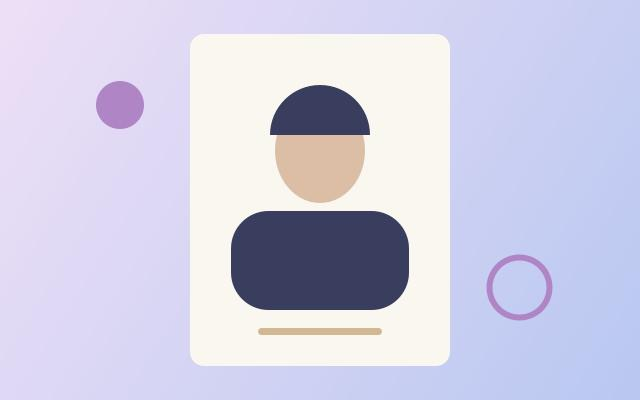
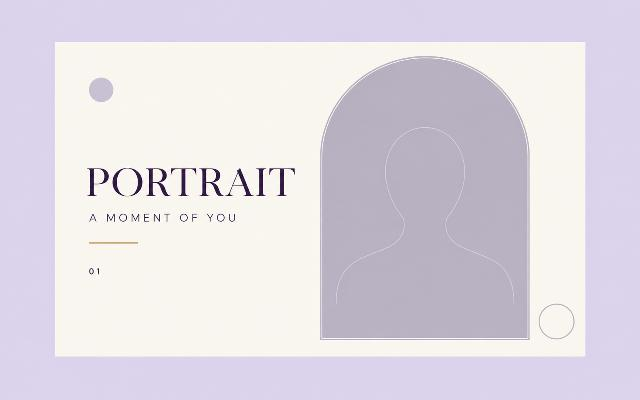
fix(backend): return mock artwork for the selected template
Resolve portrait and postcard candidates through an explicit result whitelist.
Package separate artwork and retain the legacy fixture for existing successful tasks.
Add template/result mapping and HTTP persistence regression coverage, plus media provenance.

Validation: 404 backend tests and 11 isolated MySQL execution/API integration tests passed.

diff --git a/backend/scripts/GenerateDemoMedia.java b/backend/scripts/GenerateDemoMedia.java
@@ -1,72 +1,33 @@
-import java.awt.BasicStroke;
-import java.awt.Color;
-import java.awt.GradientPaint;
-import java.awt.Graphics2D;
 import java.awt.RenderingHints;
 import java.awt.image.BufferedImage;
 import java.nio.file.Files;
 import java.nio.file.Path;
 import javax.imageio.ImageIO;
 
-/** Original geometric demo artwork. Run from backend/ with Java 17 source-file mode. */
+/** Packages imagegen artwork as bounded JPEGs. Run from backend/; see demo-media/SOURCES.md. */
 public class GenerateDemoMedia {
     public static void main(String[] args) throws Exception {
-        Path directory = Path.of("src/main/resources/demo-media");
-        Files.createDirectories(directory);
-        for (String name : new String[]{"portrait-cover", "postcard-cover", "mock-result"}) {
-            var image = new BufferedImage(640, 400, BufferedImage.TYPE_INT_RGB);
+        if (args.length != 7) {
+            throw new IllegalArgumentException("Expected portrait-source, coast-source, town-source, portrait-cover, postcard-cover, portrait-result, postcard-result image paths");
+        }
+        Path media = Path.of("src/main/resources/demo-media");
+        Path examples = Path.of("../frontend/public/demo-examples");
+        Files.createDirectories(media);
+        Files.createDirectories(examples);
+        String[] names = {"portrait-source", "travel-coast-source", "travel-town-source",
+                "portrait-cover", "postcard-cover", "portrait-result", "postcard-result"};
+        for (int i = 0; i < names.length; i++) {
+            Path output = (i < 3 ? examples : media).resolve(names[i] + ".jpg");
+            var source = ImageIO.read(Path.of(args[i]).toFile());
+            if (source == null) throw new IllegalArgumentException("Unreadable image: " + names[i]);
+            var image = new BufferedImage(i < 3 ? 1200 : 640, i < 3 ? 800 : 400, BufferedImage.TYPE_INT_RGB);
             var graphics = image.createGraphics();
-            graphics.setRenderingHint(RenderingHints.KEY_ANTIALIASING, RenderingHints.VALUE_ANTIALIAS_ON);
-            if (name.equals("portrait-cover")) portrait(graphics);
-            else landscape(graphics, name.equals("mock-result"));
+            graphics.setRenderingHint(RenderingHints.KEY_INTERPOLATION, RenderingHints.VALUE_INTERPOLATION_BICUBIC);
+            graphics.drawImage(source, 0, 0, image.getWidth(), image.getHeight(), null);
             graphics.dispose();
-            ImageIO.write(image, "jpeg", directory.resolve(name + ".jpg").toFile());
+            if (!ImageIO.write(image, "jpeg", output.toFile())) throw new IllegalStateException("JPEG writer unavailable");
+            if (i >= 5) Files.copy(output, examples.resolve(output.getFileName()), java.nio.file.StandardCopyOption.REPLACE_EXISTING);
         }
-    }
-
-    private static void portrait(Graphics2D graphics) {
-        graphics.setPaint(new GradientPaint(0, 0, new Color(238, 224, 247), 640, 400, new Color(185, 200, 241)));
-        graphics.fillRect(0, 0, 640, 400);
-        graphics.setColor(new Color(250, 247, 241));
-        graphics.fillRoundRect(190, 34, 260, 332, 28, 28);
-        graphics.setColor(new Color(219, 190, 165));
-        graphics.fillOval(275, 98, 90, 105);
-        graphics.setColor(new Color(57, 62, 94));
-        graphics.fillArc(270, 85, 100, 100, 0, 180);
-        graphics.fillRoundRect(231, 211, 178, 99, 75, 75);
-        graphics.setColor(new Color(176, 133, 197));
-        graphics.fillOval(96, 81, 48, 48);
-        graphics.setStroke(new BasicStroke(6));
-        graphics.drawOval(489, 257, 60, 60);
-        graphics.setColor(new Color(210, 184, 146));
-        graphics.fillRoundRect(258, 328, 124, 7, 7, 7);
-    }
-
-    private static void landscape(Graphics2D graphics, boolean result) {
-        graphics.setColor(new Color(244, 239, 225));
-        graphics.fillRect(0, 0, 640, 400);
-        graphics.setPaint(new GradientPaint(0, 35, new Color(181, 218, 229), 0, 300, new Color(241, 223, 188)));
-        graphics.fillRect(30, 30, 580, 305);
-        graphics.setColor(new Color(244, 184, 110));
-        graphics.fillOval(result ? 415 : 445, 65, 72, 72);
-        graphics.setColor(new Color(99, 147, 150));
-        graphics.fillPolygon(new int[]{30, 210, 380, 520, 610}, new int[]{260, 96, 240, 131, 260}, 5);
-        graphics.setColor(new Color(55, 106, 112));
-        graphics.fillPolygon(new int[]{30, 140, 320, 480, 610, 610, 30},
-                new int[]{300, 218, 292, 198, 260, 335, 335}, 7);
-        graphics.setColor(new Color(213, 231, 223));
-        graphics.fillPolygon(new int[]{270, 340, 460, 385}, new int[]{335, 266, 335, 335}, 4);
-        graphics.setColor(new Color(89, 117, 117));
-        graphics.fillRoundRect(32, 357, 160, 8, 8, 8);
-        graphics.fillRoundRect(32, 375, 104, 5, 5, 5);
-        graphics.setStroke(new BasicStroke(2));
-        graphics.drawRect(568, 349, 39, 34);
-        if (result) {
-            graphics.setColor(new Color(244, 239, 225));
-            graphics.fillOval(62, 54, 82, 82);
-            graphics.setColor(new Color(55, 106, 112));
-            graphics.setStroke(new BasicStroke(7, BasicStroke.CAP_ROUND, BasicStroke.JOIN_ROUND));
-            graphics.drawPolyline(new int[]{84, 99, 124}, new int[]{94, 108, 79}, 3);
-        }
+        // mock-result.jpg is retained unchanged for already-persisted demo:mock-result tasks.
     }
 }

diff --git a/backend/src/test/java/com/frameflow/studio/infrastructure/adapter/port/asset/PackagedDemoMediaPortTest.java b/backend/src/test/java/com/frameflow/studio/infrastructure/adapter/port/asset/PackagedDemoMediaPortTest.java
@@ -32,10 +32,16 @@ class PackagedDemoMediaPortTest {
             copy[0] = 0;
             assertThat(media.findCover(key).orElseThrow().bytes()[0]).isEqualTo((byte) 0xff);
         }
-        assertThat(media.resultFixture().reference()).isEqualTo("demo:mock-result");
-        assertThat(media.resultFixture().mediaType()).isEqualTo("image/jpeg");
-        assertJpeg(media.resultFixture().bytes());
-        for (String key : new String[]{"mock-result", "demo:mock-result", "../application.yml", "/etc/passwd",
+        for (String reference : new String[]{"demo:mock-result", "demo:portrait-result", "demo:postcard-result"}) {
+            var result = media.prepareResult(reference);
+            assertThat(result.reference()).isEqualTo(reference);
+            assertThat(result.mediaType()).isEqualTo("image/jpeg");
+            assertJpeg(result.bytes());
+        }
+        assertThat(media.prepareResult("demo:portrait-result").bytes())
+                .isNotEqualTo(media.prepareResult("demo:postcard-result").bytes())
+                .isNotEqualTo(media.findCover("portrait-cover").orElseThrow().bytes());
+        for (String key : new String[]{"mock-result", "portrait-result", "postcard-result", "demo:mock-result", "../application.yml", "/etc/passwd",
                 "portrait-cover.jpg", "demo-media/portrait-cover.jpg", "unknown"}) {
             assertThat(media.findCover(key)).as(key).isEmpty();
         }
@@ -46,13 +52,13 @@ class PackagedDemoMediaPortTest {
         Resource jpegWithPngName = new ClassPathResource("demo-media/portrait-cover.jpg") {
             @Override public String getFilename() { return "wrong.png"; }
         };
-        var port = new PackagedDemoMediaPort(Map.of("cover", jpegWithPngName), jpegWithPngName);
+        var port = new PackagedDemoMediaPort(Map.of("cover", jpegWithPngName), Map.of("demo:result", jpegWithPngName));
         assertThat(port.findCover("cover").orElseThrow().mediaType()).isEqualTo("image/jpeg");
         var png = new ByteArrayOutputStream();
         try (var input = jpegWithPngName.getInputStream()) {
             ImageIO.write(ImageIO.read(input), "png", png);
         }
-        var pngPort = new PackagedDemoMediaPort(Map.of("cover", new ByteArrayResource(png.toByteArray())), jpegWithPngName);
+        var pngPort = new PackagedDemoMediaPort(Map.of("cover", new ByteArrayResource(png.toByteArray())), Map.of("demo:result", jpegWithPngName));
         assertThat(pngPort.findCover("cover").orElseThrow().mediaType()).isEqualTo("image/png");
     }
 
@@ -62,11 +68,11 @@ class PackagedDemoMediaPortTest {
         byte[] truncated = java.util.Arrays.copyOf(valid.getContentAsByteArray(), 40);
         for (Resource invalid : new Resource[]{new ClassPathResource("missing.jpg"),
                 new ByteArrayResource(new byte[]{1, 2, 3}), new ByteArrayResource(truncated)}) {
-            assertThatThrownBy(() -> new PackagedDemoMediaPort(Map.of("cover", invalid), valid))
+            assertThatThrownBy(() -> new PackagedDemoMediaPort(Map.of("cover", invalid), Map.of("demo:result", valid)))
                     .isInstanceOf(IllegalStateException.class).hasMessageContaining("Cannot load packaged demo image");
             try (var context = new AnnotationConfigApplicationContext()) {
                 context.registerBean(PackagedDemoMediaPort.class,
-                        () -> new PackagedDemoMediaPort(Map.of("cover", valid), invalid));
+                        () -> new PackagedDemoMediaPort(Map.of("cover", valid), Map.of("demo:result", invalid)));
                 assertThatThrownBy(context::refresh).hasRootCauseInstanceOf(java.io.IOException.class);
                 assertThat(context.isActive()).isFalse();
             }

diff --git a/backend/src/test/java/com/frameflow/studio/infrastructure/dao/task/TaskApiIT.java b/backend/src/test/java/com/frameflow/studio/infrastructure/dao/task/TaskApiIT.java
@@ -182,7 +182,7 @@ class TaskApiIT {
         }
         var image = client.send(HttpRequest.newBuilder(URI.create(origin + path + "/result")).GET().build(), HttpResponse.BodyHandlers.ofByteArray());
         assertThat(image.statusCode()).isEqualTo(200);
-        assertThat(image.body()).isEqualTo(new ClassPathResource("demo-media/mock-result.jpg").getContentAsByteArray());
+        assertThat(image.body()).isEqualTo(new ClassPathResource("demo-media/portrait-result.jpg").getContentAsByteArray());
         assertThat(javax.imageio.ImageIO.read(new java.io.ByteArrayInputStream(image.body()))).isNotNull();
         assertThat(image.headers().firstValue("Content-Type")).contains("image/jpeg");
         assertThat(image.headers().firstValue("X-Content-Type-Options")).contains("nosniff");
@@ -239,6 +239,32 @@ class TaskApiIT {
         assertThat(jdbc.queryForList("SELECT asset_id FROM task_input_asset WHERE task_id=? ORDER BY position", String.class, id))
                 .containsExactly(asset, asset);
         assertThat(json(get(client, "/api/v1/tasks/" + id)).get("status").asString()).isEqualTo("SUCCEEDED");
+    }
+
+    @Test
+    void bothTemplatesPersistAndServeTheirOwnResultArtwork() throws Exception {
+        String asset = upload(client);
+        var bodies = new java.util.ArrayList<byte[]>();
+        for (var entry : java.util.Map.of("portrait-card", "portrait-result", "travel-postcard", "postcard-result").entrySet()) {
+            done = new CountDownLatch(1);
+            var assets = entry.getKey().equals("portrait-card") ? List.of(asset) : List.of(asset, asset);
+            var accepted = submit(client, entry.getKey(), assets, "{\"stageDelayMs\":0}");
+            assertThat(accepted.statusCode()).isEqualTo(202);
+            String path = accepted.headers().firstValue("Location").orElseThrow();
+            assertThat(done.await(5, TimeUnit.SECONDS)).isTrue();
+            var task = json(get(client, path));
+            assertThat(task.get("status").asString()).isEqualTo("SUCCEEDED");
+            assertThat(task.get("templateId").asString()).isEqualTo(entry.getKey());
+            var response = client.send(HttpRequest.newBuilder(URI.create(origin + path + "/result")).GET().build(),
+                    HttpResponse.BodyHandlers.ofByteArray());
+            assertThat(response.statusCode()).isEqualTo(200);
+            assertThat(response.body()).isEqualTo(new ClassPathResource("demo-media/" + entry.getValue() + ".jpg").getContentAsByteArray());
+            var persisted = repository.findOwned(UUID.fromString(task.get("taskId").asString()),
+                    UUID.fromString(task.get("ownerId").asString())).orElseThrow();
+            assertThat(persisted.result().resultReference()).isEqualTo("demo:" + entry.getValue());
+            bodies.add(response.body());
+        }
+        assertThat(bodies.get(0)).isNotEqualTo(bodies.get(1));
     }
 
     private HttpClient login(String suffix) throws Exception {

diff --git a/backend/src/main/java/com/frameflow/studio/infrastructure/adapter/port/asset/PackagedDemoMediaPort.java b/backend/src/main/java/com/frameflow/studio/infrastructure/adapter/port/asset/PackagedDemoMediaPort.java
@@ -15,19 +15,24 @@ import com.frameflow.studio.domain.asset.model.valobj.PackagedImage;
 
 public class PackagedDemoMediaPort implements IDemoMediaPort {
     private final Map<String, PackagedImage> covers;
-    private final PackagedImage result;
+    private final Map<String, PackagedImage> results;
 
     public PackagedDemoMediaPort() {
         this(Map.of("portrait-cover", new ClassPathResource("demo-media/portrait-cover.jpg"),
                         "postcard-cover", new ClassPathResource("demo-media/postcard-cover.jpg")),
-                new ClassPathResource("demo-media/mock-result.jpg"));
+                Map.of("demo:portrait-result", new ClassPathResource("demo-media/portrait-result.jpg"),
+                        "demo:postcard-result", new ClassPathResource("demo-media/postcard-result.jpg"),
+                        // Existing successful tasks keep resolving their original stable reference.
+                        "demo:mock-result", new ClassPathResource("demo-media/mock-result.jpg")));
     }
 
-    PackagedDemoMediaPort(Map<String, Resource> coverResources, Resource resultResource) {
+    PackagedDemoMediaPort(Map<String, Resource> coverResources, Map<String, Resource> resultResources) {
         var loaded = new LinkedHashMap<String, PackagedImage>();
         coverResources.forEach((key, resource) -> loaded.put(key, load("demo:" + key, resource)));
         covers = Map.copyOf(loaded);
-        result = load("demo:mock-result", resultResource);
+        var loadedResults = new LinkedHashMap<String, PackagedImage>();
+        resultResources.forEach((reference, resource) -> loadedResults.put(reference, load(reference, resource)));
+        results = Map.copyOf(loadedResults);
     }
 
     public Set<String> publicCoverKeys() {
@@ -41,8 +46,8 @@ public class PackagedDemoMediaPort implements IDemoMediaPort {
     }
 
     @Override
-    public PackagedImage resultFixture() {
-        return result;
+    public Optional<PackagedImage> findResult(String reference) {
+        return Optional.ofNullable(results.get(reference));
     }
 
     private static PackagedImage load(String reference, Resource resource) {

diff --git a/backend/src/test/java/com/frameflow/studio/infrastructure/adapter/port/task/MockMediaGeneratorPortTest.java b/backend/src/test/java/com/frameflow/studio/infrastructure/adapter/port/task/MockMediaGeneratorPortTest.java
@@ -1,0 +1,35 @@
+package com.frameflow.studio.infrastructure.adapter.port.task;
+
+import java.util.List;
+import java.util.UUID;
+import org.junit.jupiter.api.Test;
+import com.frameflow.studio.domain.task.model.valobj.TaskInput;
+import com.frameflow.studio.infrastructure.adapter.port.asset.PackagedDemoMediaPort;
+
+import static org.assertj.core.api.Assertions.*;
+
+class MockMediaGeneratorPortTest {
+    @Test
+    void eachTemplateProducesItsOwnResultAndUnknownTemplatesNeverFallBackToAnotherDesign() {
+        var generator = new MockMediaGeneratorPort();
+        var portrait = generator.generate(new TaskInput("portrait-card", List.of(UUID.randomUUID())));
+        var postcard = generator.generate(new TaskInput("travel-postcard", List.of(UUID.randomUUID(), UUID.randomUUID())));
+        assertThat(portrait.reference()).isEqualTo("demo:portrait-result");
+        assertThat(postcard.reference()).isEqualTo("demo:postcard-result");
+        assertThatThrownBy(() -> generator.generate(new TaskInput("unknown", List.of(UUID.randomUUID()))))
+                .isInstanceOf(IllegalArgumentException.class);
+    }
+
+    @Test
+    void generatedReferencesResolveToTheMatchingPackagedArtwork() throws Exception {
+        var generator = new MockMediaGeneratorPort();
+        var media = new PackagedDemoMediaPort();
+        for (var entry : java.util.Map.of("portrait-card", "portrait-result", "travel-postcard", "postcard-result").entrySet()) {
+            var candidate = generator.generate(new TaskInput(entry.getKey(), List.of(UUID.randomUUID())));
+            var image = media.findResult(candidate.reference()).orElseThrow();
+            var expected = new org.springframework.core.io.ClassPathResource("demo-media/" + entry.getValue() + ".jpg");
+            assertThat(image.bytes()).isEqualTo(expected.getContentAsByteArray());
+            assertThat(media.findCover(entry.getValue())).isEmpty();
+        }
+    }
+}

diff --git a/backend/src/main/java/com/frameflow/studio/cases/asset/impl/MediaResourceCaseImpl.java b/backend/src/main/java/com/frameflow/studio/cases/asset/impl/MediaResourceCaseImpl.java
@@ -47,16 +47,8 @@ public class MediaResourceCaseImpl implements IMediaResourceCase {
 
     @Override
     public MediaResource prepareResult(String candidateReference) {
-        // Resolve only the registered fixture, never a caller-supplied filesystem or classpath location.
-        var ready = resultFixture();
-        if (!ready.reference().equals(candidateReference)) {
-            throw new AssetOperationException(AssetOperationException.Reason.UNAVAILABLE);
-        }
-        return ready;
-    }
-
-    @Override
-    public MediaResource resultFixture() {
-        return MediaResource.from(media.resultFixture());
+        // Resolve only registered fixtures, never a caller-supplied filesystem or classpath location.
+        return media.findResult(candidateReference).map(MediaResource::from)
+                .orElseThrow(() -> new AssetOperationException(AssetOperationException.Reason.UNAVAILABLE));
     }
 }

diff --git a/backend/src/test/java/com/frameflow/studio/cases/asset/AssetCasesTest.java b/backend/src/test/java/com/frameflow/studio/cases/asset/AssetCasesTest.java
@@ -58,6 +58,11 @@ class AssetCasesTest {
     void finalizationResolvesOnlyRegisteredFixtureAndNeverArbitraryReferences() {
         var media = new MediaResourceCaseImpl(new PackagedDemoMediaPort(), repository, storage);
         assertThat(media.prepareResult("demo:mock-result").bytes()).isNotEmpty();
+        var portrait = media.prepareResult("demo:portrait-result");
+        var postcard = media.prepareResult("demo:postcard-result");
+        assertThat(portrait.bytes()).isNotEqualTo(postcard.bytes());
+        assertThat(portrait.mediaType()).isEqualTo("image/jpeg");
+        assertThat(postcard.mediaType()).isEqualTo("image/jpeg");
         for (String reference : List.of("demo:portrait-cover", "../mock-result.jpg", "file:/tmp/result.jpg")) {
             assertThatThrownBy(() -> media.prepareResult(reference)).isInstanceOf(AssetOperationException.class)
                     .hasMessage("UNAVAILABLE");

diff --git a/backend/src/test/java/com/frameflow/studio/infrastructure/dao/task/ExecutionIT.java b/backend/src/test/java/com/frameflow/studio/infrastructure/dao/task/ExecutionIT.java
@@ -279,7 +279,7 @@ class ExecutionIT {
 
     private ProductionTask create() {
         UUID owner = UUID.randomUUID();
-        var asset = upload.upload(owner, "portrait-card", new ByteArrayInputStream(media.resultFixture().bytes()));
+        var asset = upload.upload(owner, "portrait-card", new ByteArrayInputStream(media.prepareResult("demo:portrait-result").bytes()));
         var task = ProductionTask.accept(UUID.randomUUID(), owner, clock.instant(),
                 new TaskInput("portrait-card", List.of(asset.assetId())));
         new TransactionTemplate(transactionManager).executeWithoutResult(status -> repository.insert(task));

diff --git a/backend/src/test/java/com/frameflow/studio/infrastructure/adapter/port/task/ExecutorTaskDispatcherPortTest.java b/backend/src/test/java/com/frameflow/studio/infrastructure/adapter/port/task/ExecutorTaskDispatcherPortTest.java
@@ -90,6 +90,6 @@ class ExecutorTaskDispatcherPortTest {
         assertThat(new ExecutionOptions(null, 0).stageDelayMs()).isZero();
         assertThat(new ExecutionOptions(null, 30000).stageDelayMs()).isEqualTo(30000);
         var input = new com.frameflow.studio.domain.task.model.valobj.TaskInput("portrait-card", List.of(UUID.randomUUID()));
-        assertThat(new MockMediaGeneratorPort().generate(input).reference()).isEqualTo("demo:mock-result");
+        assertThat(new MockMediaGeneratorPort().generate(input).reference()).isEqualTo("demo:portrait-result");
     }
 }

diff --git a/backend/src/main/java/com/frameflow/studio/infrastructure/adapter/port/task/MockMediaGeneratorPort.java b/backend/src/main/java/com/frameflow/studio/infrastructure/adapter/port/task/MockMediaGeneratorPort.java
@@ -7,6 +7,10 @@ import com.frameflow.studio.domain.task.model.valobj.TaskInput;
 public class MockMediaGeneratorPort implements IMediaGeneratorPort {
     @Override
     public Candidate generate(TaskInput input) {
-        return new Candidate("demo:mock-result");
+        return new Candidate(switch (input.templateId()) {
+            case "portrait-card" -> "demo:portrait-result";
+            case "travel-postcard" -> "demo:postcard-result";
+            default -> throw new IllegalArgumentException("No mock result for template");
+        });
     }
 }

diff --git a/backend/src/main/java/com/frameflow/studio/cases/asset/IMediaResourceCase.java b/backend/src/main/java/com/frameflow/studio/cases/asset/IMediaResourceCase.java
@@ -6,7 +6,6 @@ import com.frameflow.studio.cases.asset.model.MediaResource;
 
 public interface IMediaResourceCase {
     Optional<MediaResource> findCover(String mediaKey);
-    MediaResource resultFixture();
     MediaResource prepareResult(String candidateReference);
     MediaResource input(UUID ownerId, UUID assetId);
 }

diff --git a/backend/src/main/java/com/frameflow/studio/domain/asset/adapter/port/IDemoMediaPort.java b/backend/src/main/java/com/frameflow/studio/domain/asset/adapter/port/IDemoMediaPort.java
@@ -5,5 +5,5 @@ import com.frameflow.studio.domain.asset.model.valobj.PackagedImage;
 
 public interface IDemoMediaPort {
     Optional<PackagedImage> findCover(String mediaKey);
-    PackagedImage resultFixture();
+    Optional<PackagedImage> findResult(String reference);
 }
